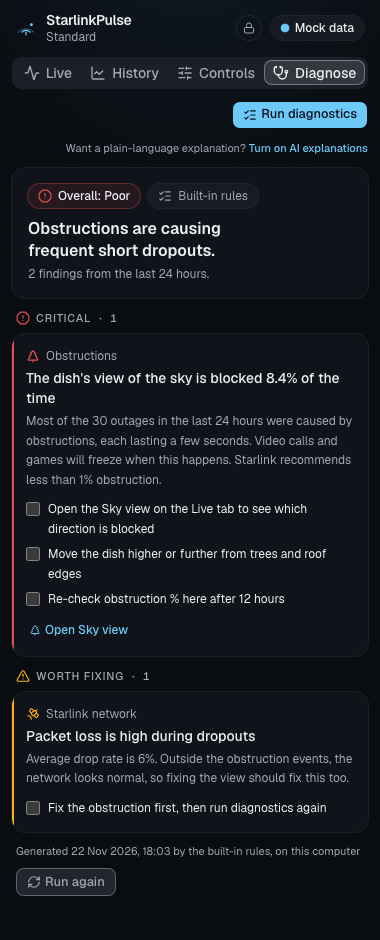
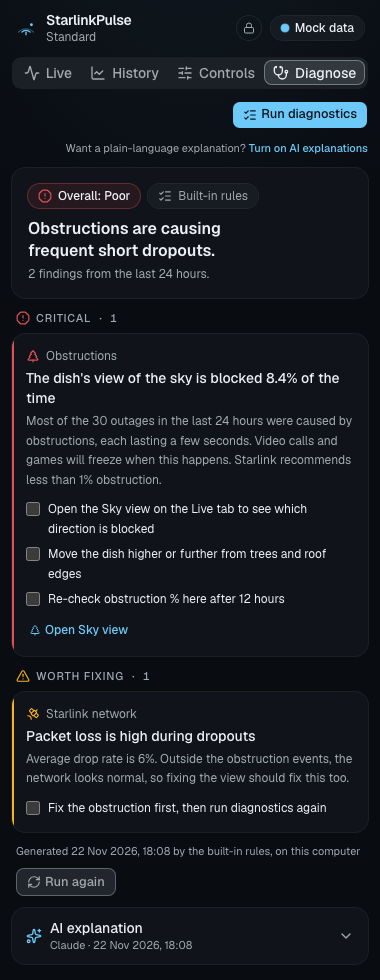
feat(ui): 3D obstruction dome, split rules/AI reports, GPS satellites label (phase 4.7)
- Sky view 2D/3D toggle: canvas dome with drag/keyboard rotation,
  idle spin, reduced-motion fallback to 2D
- Diagnose loads last rules report; AI explanation in its own section
- Dish card shows GPS fix and GPS satellites with clarifying tooltip

diff --git a/src/components/sky/sky-section.tsx b/src/components/sky/sky-section.tsx
@@ -3,22 +3,60 @@ import { useObstructionMap } from "@/hooks/use-pulse";
 import { formatAgo } from "@/lib/format";
 import { useNow } from "@/hooks/use-now";
 import { Section } from "@/components/state-panels";
-import { ObstructionMapView } from "@/components/sky/obstruction-map";
+import { ObstructionMapView, type MapMode } from "@/components/sky/obstruction-map";
+import { useState } from "react";
+import { cn } from "@/lib/utils";
+import { useMediaQuery, usePrefersReducedMotion } from "@/hooks/use-media";
+import { loadSkyMode, resolveSkyMode, saveSkyMode } from "@/lib/view-pref";
 
 /** Obstruction map card. Renders nothing when the dish can't provide a map. */
 export function SkySection({ supported }: { supported: boolean }) {
   const state = useObstructionMap(supported);
   const now = useNow(10_000);
+  const reduced = usePrefersReducedMotion();
+  const wide = useMediaQuery("(min-width: 768px)");
+  const [saved, setSaved] = useState<MapMode | null>(loadSkyMode);
+  const mode = resolveSkyMode(saved, wide, reduced);
   if (!supported || state.status === "unsupported") return null;
+
+  const choose = (m: MapMode) => {
+    setSaved(m);
+    saveSkyMode(m);
+  };
 
   return (
     <Section
       title="Sky view"
       id="sky-view"
       aside={
-        state.status === "ready" ? (
-          <span className="text-[0.6875rem] text-muted-foreground">Updated {formatAgo(state.fetchedAt, now)}</span>
-        ) : undefined
+        <div className="flex items-center gap-2">
+          {state.status === "ready" && (
+            <span className="hidden text-[0.6875rem] text-muted-foreground sm:inline">
+              Updated {formatAgo(state.fetchedAt, now)}
+            </span>
+          )}
+          <div role="group" aria-label="Map view" className="inline-flex h-6 rounded-md bg-muted p-0.5 ring-1 ring-border">
+            {(["2d", "3d"] as const).map((m) => {
+              const disabled = m === "3d" && reduced;
+              return (
+                <button
+                  key={m}
+                  type="button"
+                  aria-pressed={mode === m}
+                  disabled={disabled}
+                  title={disabled ? "3D is off because Reduce Motion is on" : m === "3d" ? "3D dome view" : "Flat map"}
+                  onClick={() => choose(m)}
+                  className={cn(
+                    "num rounded-[5px] px-2 text-[0.6875rem] uppercase transition-colors outline-none focus-visible:ring-2 focus-visible:ring-ring disabled:opacity-40",
+                    mode === m ? "bg-background text-foreground shadow-sm" : "text-muted-foreground hover:text-foreground",
+                  )}
+                >
+                  {m}
+                </button>
+              );
+            })}
+          </div>
+        </div>
       }
     >
       {state.status === "loading" && (
@@ -33,7 +71,7 @@ export function SkySection({ supported }: { supported: boolean }) {
       )}
       {state.status === "ready" && (
         <>
-          <ObstructionMapView map={state.map} />
+          <ObstructionMapView map={state.map} mode={mode} still={reduced} />
           {state.error && (
             <p className="mt-2 text-[0.6875rem] text-muted-foreground">Showing the last map. Refresh failed: {state.error.message}</p>
           )}

diff --git a/src/lib/dome.test.ts b/src/lib/dome.test.ts
@@ -1,0 +1,71 @@
+import { describe, expect, it } from "vitest";
+import { clampTilt, MAX_TILT, project, skyToVec, viewBasis } from "@/lib/dome";
+import { resolveSkyMode } from "@/lib/view-pref";
+
+const b = (yawDeg: number, tiltDeg: number, distance = 3) => viewBasis({ yawDeg, tiltDeg, distance });
+
+describe("dome projection", () => {
+  it("maps the zenith to the centre when looking straight down, for any yaw", () => {
+    for (const yaw of [0, 45, 133, 270]) {
+      const p = project(skyToVec(0, 90), b(yaw, 0));
+      expect(p.sx).toBeCloseTo(0);
+      expect(p.sy).toBeCloseTo(0);
+    }
+  });
+
+  it("puts horizon north at the top and east on the right at yaw 0 (same as the 2D map)", () => {
+    const n = project(skyToVec(0, 0), b(0, 0));
+    expect(n.sx).toBeCloseTo(0);
+    expect(n.sy).toBeLessThan(0); // canvas y grows downwards
+    const e = project(skyToVec(90, 0), b(0, 0));
+    expect(e.sx).toBeGreaterThan(0);
+    expect(e.sy).toBeCloseTo(0);
+    // North stays at the top when the camera is tilted.
+    const nt = project(skyToVec(0, 0), b(0, 50));
+    expect(nt.sx).toBeCloseTo(0);
+    expect(nt.sy).toBeLessThan(0);
+  });
+
+  it("keeps the horizon a circle under yaw when looking straight down", () => {
+    const r = (az: number, yaw: number) => {
+      const p = project(skyToVec(az, 0), b(yaw, 0));
+      return Math.hypot(p.sx, p.sy);
+    };
+    for (const yaw of [0, 30, 200]) for (const az of [0, 90, 222]) expect(r(az, yaw)).toBeCloseTo(r(0, 0));
+  });
+
+  it("positive yaw turns the dome clockwise seen from above (same as adding azimuth)", () => {
+    const a = project(skyToVec(30, 40), b(25, 35));
+    const c = project(skyToVec(55, 40), b(0, 35));
+    expect(a.sx).toBeCloseTo(c.sx);
+    expect(a.sy).toBeCloseTo(c.sy);
+    expect(a.depth).toBeCloseTo(c.depth);
+  });
+
+  it("brings the south side towards a tilted camera and pushes the north side away", () => {
+    const s = project(skyToVec(180, 0), b(0, 60));
+    const n = project(skyToVec(0, 0), b(0, 60));
+    expect(s.depth).toBeGreaterThan(0);
+    expect(n.depth).toBeLessThan(0);
+    expect(s.scale).toBeGreaterThan(n.scale); // perspective: nearer looks bigger
+  });
+
+  it("clamps tilt", () => {
+    expect(clampTilt(-10)).toBe(0);
+    expect(clampTilt(500)).toBe(MAX_TILT);
+  });
+});
+
+describe("sky view mode preference", () => {
+  it("defaults to 3D on desktop and 2D in the tray", () => {
+    expect(resolveSkyMode(null, true, false)).toBe("3d");
+    expect(resolveSkyMode(null, false, false)).toBe("2d");
+  });
+  it("respects the saved choice", () => {
+    expect(resolveSkyMode("2d", true, false)).toBe("2d");
+    expect(resolveSkyMode("3d", false, false)).toBe("3d");
+  });
+  it("forces 2D with reduced motion", () => {
+    expect(resolveSkyMode("3d", true, true)).toBe("2d");
+  });
+});

diff --git a/src/lib/mock/obstruction.ts b/src/lib/mock/obstruction.ts
@@ -22,13 +22,13 @@ function hash(n: number): number {
 const BLOBS: Partial<Record<MockProfile, Blob[]>> = {
   // A tree low in the south-west plus a roof edge to the north.
   obstructed: [
-    { azimuthDeg: 225, elevationDeg: 24, azSpread: 28, elSpread: 14, depth: 0.95 },
-    { azimuthDeg: 250, elevationDeg: 38, azSpread: 10, elSpread: 8, depth: 0.7 },
-    { azimuthDeg: 5, elevationDeg: 14, azSpread: 35, elSpread: 5, depth: 0.6 },
+    { azimuthDeg: 225, elevationDeg: 36, azSpread: 30, elSpread: 12, depth: 0.95 },
+    { azimuthDeg: 255, elevationDeg: 48, azSpread: 10, elSpread: 7, depth: 0.8 },
+    { azimuthDeg: 5, elevationDeg: 31, azSpread: 30, elSpread: 4, depth: 0.7 },
   ],
-  standard: [{ azimuthDeg: 70, elevationDeg: 13, azSpread: 8, elSpread: 3, depth: 0.6 }],
-  standard_actuated: [{ azimuthDeg: 300, elevationDeg: 12, azSpread: 6, elSpread: 3, depth: 0.5 }],
-  mini: [{ azimuthDeg: 140, elevationDeg: 16, azSpread: 12, elSpread: 4, depth: 0.55 }],
+  standard: [{ azimuthDeg: 70, elevationDeg: 32, azSpread: 7, elSpread: 3, depth: 0.8 }],
+  standard_actuated: [{ azimuthDeg: 300, elevationDeg: 31, azSpread: 6, elSpread: 3, depth: 0.8 }],
+  mini: [{ azimuthDeg: 140, elevationDeg: 33, azSpread: 12, elSpread: 4, depth: 0.8 }],
   throttled: [],
 };
 
@@ -88,14 +88,18 @@ export function mockObstructionMap(profile: MockProfile): ObstructionMap {
       if (!p) continue;
       const i = cellIndex(r, c, SIZE);
       if (!mask[i]) continue;
-      let v = 0.82 + hash(i + 11) * 0.18;
+      // Real maps concentrate data at 30-70° elevation; keep only a little outside that band.
+      if ((p.elevationDeg < 27 || p.elevationDeg > 73) && hash(i + 5) > 0.12) continue;
+      let o = 0;
       for (const b of blobs) {
         const da = azimuthDelta(b.azimuthDeg, p.azimuthDeg) / b.azSpread;
         const de = (p.elevationDeg - b.elevationDeg) / b.elSpread;
         const d = da * da + de * de;
-        if (d < 1.6) v -= b.depth * Math.exp(-d * 1.4) * (0.85 + hash(i + 29) * 0.3);
+        if (d < 1.6) o = Math.max(o, b.depth * Math.exp(-d * 1.4));
       }
-      snr[i] = Math.max(0, Math.min(1, v));
+      // Real SNR is almost always exactly 0 (blocked) or 1 (clear), with few values in between.
+      const h = hash(i + 29);
+      snr[i] = o > 0.4 ? (h < 0.88 ? 0 : 0.45) : h < 0.97 ? 1 : 0.8;
     }
   }
   return { rows: SIZE, cols: SIZE, minElevationDeg: 10, maxThetaDeg: 80, referenceFrame: "FRAME_EARTH", snr };

diff --git a/src/lib/view-pref.ts b/src/lib/view-pref.ts
@@ -1,0 +1,30 @@
+import type { MapMode } from "@/components/sky/obstruction-map";
+
+const KEY = "starlinkpulse.skyView";
+
+/** Saved 2D/3D choice, or null. Storage errors are ignored (private mode, quotas). */
+export function loadSkyMode(): MapMode | null {
+  try {
+    const v = globalThis.localStorage?.getItem(KEY);
+    return v === "2d" || v === "3d" ? v : null;
+  } catch {
+    return null;
+  }
+}
+
+export function saveSkyMode(mode: MapMode): void {
+  try {
+    globalThis.localStorage?.setItem(KEY, mode);
+  } catch {
+    // ignore
+  }
+}
+
+/**
+ * Effective mode: reduced motion forces 2D; otherwise the saved choice, else 3D on
+ * desktop widths and 2D in the narrow tray popup.
+ */
+export function resolveSkyMode(saved: MapMode | null, wide: boolean, reducedMotion: boolean): MapMode {
+  if (reducedMotion) return "2d";
+  return saved ?? (wide ? "3d" : "2d");
+}

diff --git a/src/types/models.ts b/src/types/models.ts
@@ -140,6 +140,8 @@ export interface Settings {
   claudeModel: string;
   /** Hide to tray on window close instead of quitting (default false on Linux). */
   closeToTray: boolean;
+  /** Start StarlinkPulse when the user logs in. Default false. */
+  launchAtLogin: boolean;
   notifications: NotificationSettings;
   /** Monthly data cap in GB for usage alerts; null = none. */
   dataCapGb: number | null;
@@ -269,4 +271,15 @@ export interface DataUsage {
   capGb: number | null;
   /** Estimate disclaimer is required in UI: derived from throughput samples, not billing data. */
   isEstimate: true;
+}
+
+// ---- Phase 5: updates ----
+
+export interface UpdateInfo {
+  /** False when the build has no updater public key configured. */
+  updaterConfigured: boolean;
+  available: boolean;
+  currentVersion: string;
+  latestVersion: string | null;
+  notes: string | null;
 }

diff --git a/src/hooks/use-media.ts b/src/hooks/use-media.ts
@@ -1,0 +1,18 @@
+import { useEffect, useState } from "react";
+
+/** Live result of a CSS media query (false when matchMedia is unavailable). */
+export function useMediaQuery(query: string): boolean {
+  const get = () => typeof window !== "undefined" && typeof window.matchMedia === "function" && window.matchMedia(query).matches;
+  const [matches, setMatches] = useState(get);
+  useEffect(() => {
+    if (typeof window.matchMedia !== "function") return;
+    const mq = window.matchMedia(query);
+    const on = () => setMatches(mq.matches);
+    on();
+    mq.addEventListener?.("change", on);
+    return () => mq.removeEventListener?.("change", on);
+  }, [query]);
+  return matches;
+}
+
+export const usePrefersReducedMotion = () => useMediaQuery("(prefers-reduced-motion: reduce)");

diff --git a/src/components/sky/obstruction-map.tsx b/src/components/sky/obstruction-map.tsx
@@ -127,7 +127,9 @@ export function ObstructionMapView({
           </span>
         </div>
         <p className="text-[0.6875rem] text-muted-foreground">
-          {earth
+          {mode === "3d"
+            ? `3D view of the sky above the dish${earth ? "" : " (dish-relative orientation)"}. Drag or use the arrow keys to rotate; the solid ring is the horizon, dashed rings are 30° and 60° up.`
+            : earth
             ? "Top-down view: north up, east right, centre straight up. Rings show elevation above the horizon."
             : "Dish-relative orientation: this firmware reports the map relative to the dish, not to compass directions. Centre is straight up; rings show elevation above the horizon."}
         </p>

diff --git a/src/lib/mock/index.ts b/src/lib/mock/index.ts
@@ -33,6 +33,7 @@ export const DEFAULT_SETTINGS: Settings = {
   livePollIntervalS: 3,
   claudeModel: "claude-opus-5-5",
   closeToTray: true,
+  launchAtLogin: false,
   notifications: {
     enabled: true,
     outage: true,

diff --git a/README.md b/README.md
@@ -6,7 +6,7 @@ StarlinkPulse is a small desktop app for macOS, Windows and Linux. It monitors y
 |---|---|
 | ![Live tab in the tray popup](docs/screenshots/live-tray.png) | ![Live tab in a desktop window](docs/screenshots/live-desktop.png) |
 | ![Obstruction map and alignment helper](docs/screenshots/sky-tray.png) | ![History tab with uptime, data usage and charts](docs/screenshots/history-desktop.png) |
-| ![Diagnose report from the built-in rules](docs/screenshots/diagnose-tray.png) | |
+| ![Diagnose report from the built-in rules](docs/screenshots/diagnose-tray.png) | ![Rotatable 3D sky dome](docs/screenshots/sky-3d.png) |
 
 <sub>Screenshots taken in demo mode with simulated data.</sub>
 
@@ -14,7 +14,7 @@ StarlinkPulse is a small desktop app for macOS, Windows and Linux. It monitors y
 
 - **Live**: download/upload, latency, packet loss, signal quality, obstruction %, uptime and power draw (if your dish reports it), with 5-minute sparklines.
 - **Alerts in plain words**: thermal throttling, motors, water detected, and more. Plan speed limits (`POLICY_LIMIT`) are explained as "speed limited by plan".
-- **Sky view**: a polar obstruction map with a text summary, e.g. "mostly towards the south-west, about 25° above the horizon".
+- **Sky view**: the obstruction map as a flat polar plot or a rotatable 3D dome, with a text summary, e.g. "mostly towards the south-west, about 37° above the horizon".
 - **Alignment helper** for dishes without motors: "Rotate 11° clockwise, seen from above", "Tilt 2° up", with a tolerance indicator.
 - **History**: 1 h / 6 h / 24 h / 48 h charts for latency (average and p95), packet loss, throughput and power, with outage markers and an outage log.
 - **Uptime** over 24 hours / 7 days / 30 days and **estimated data usage** per billing cycle, with an optional data cap.
